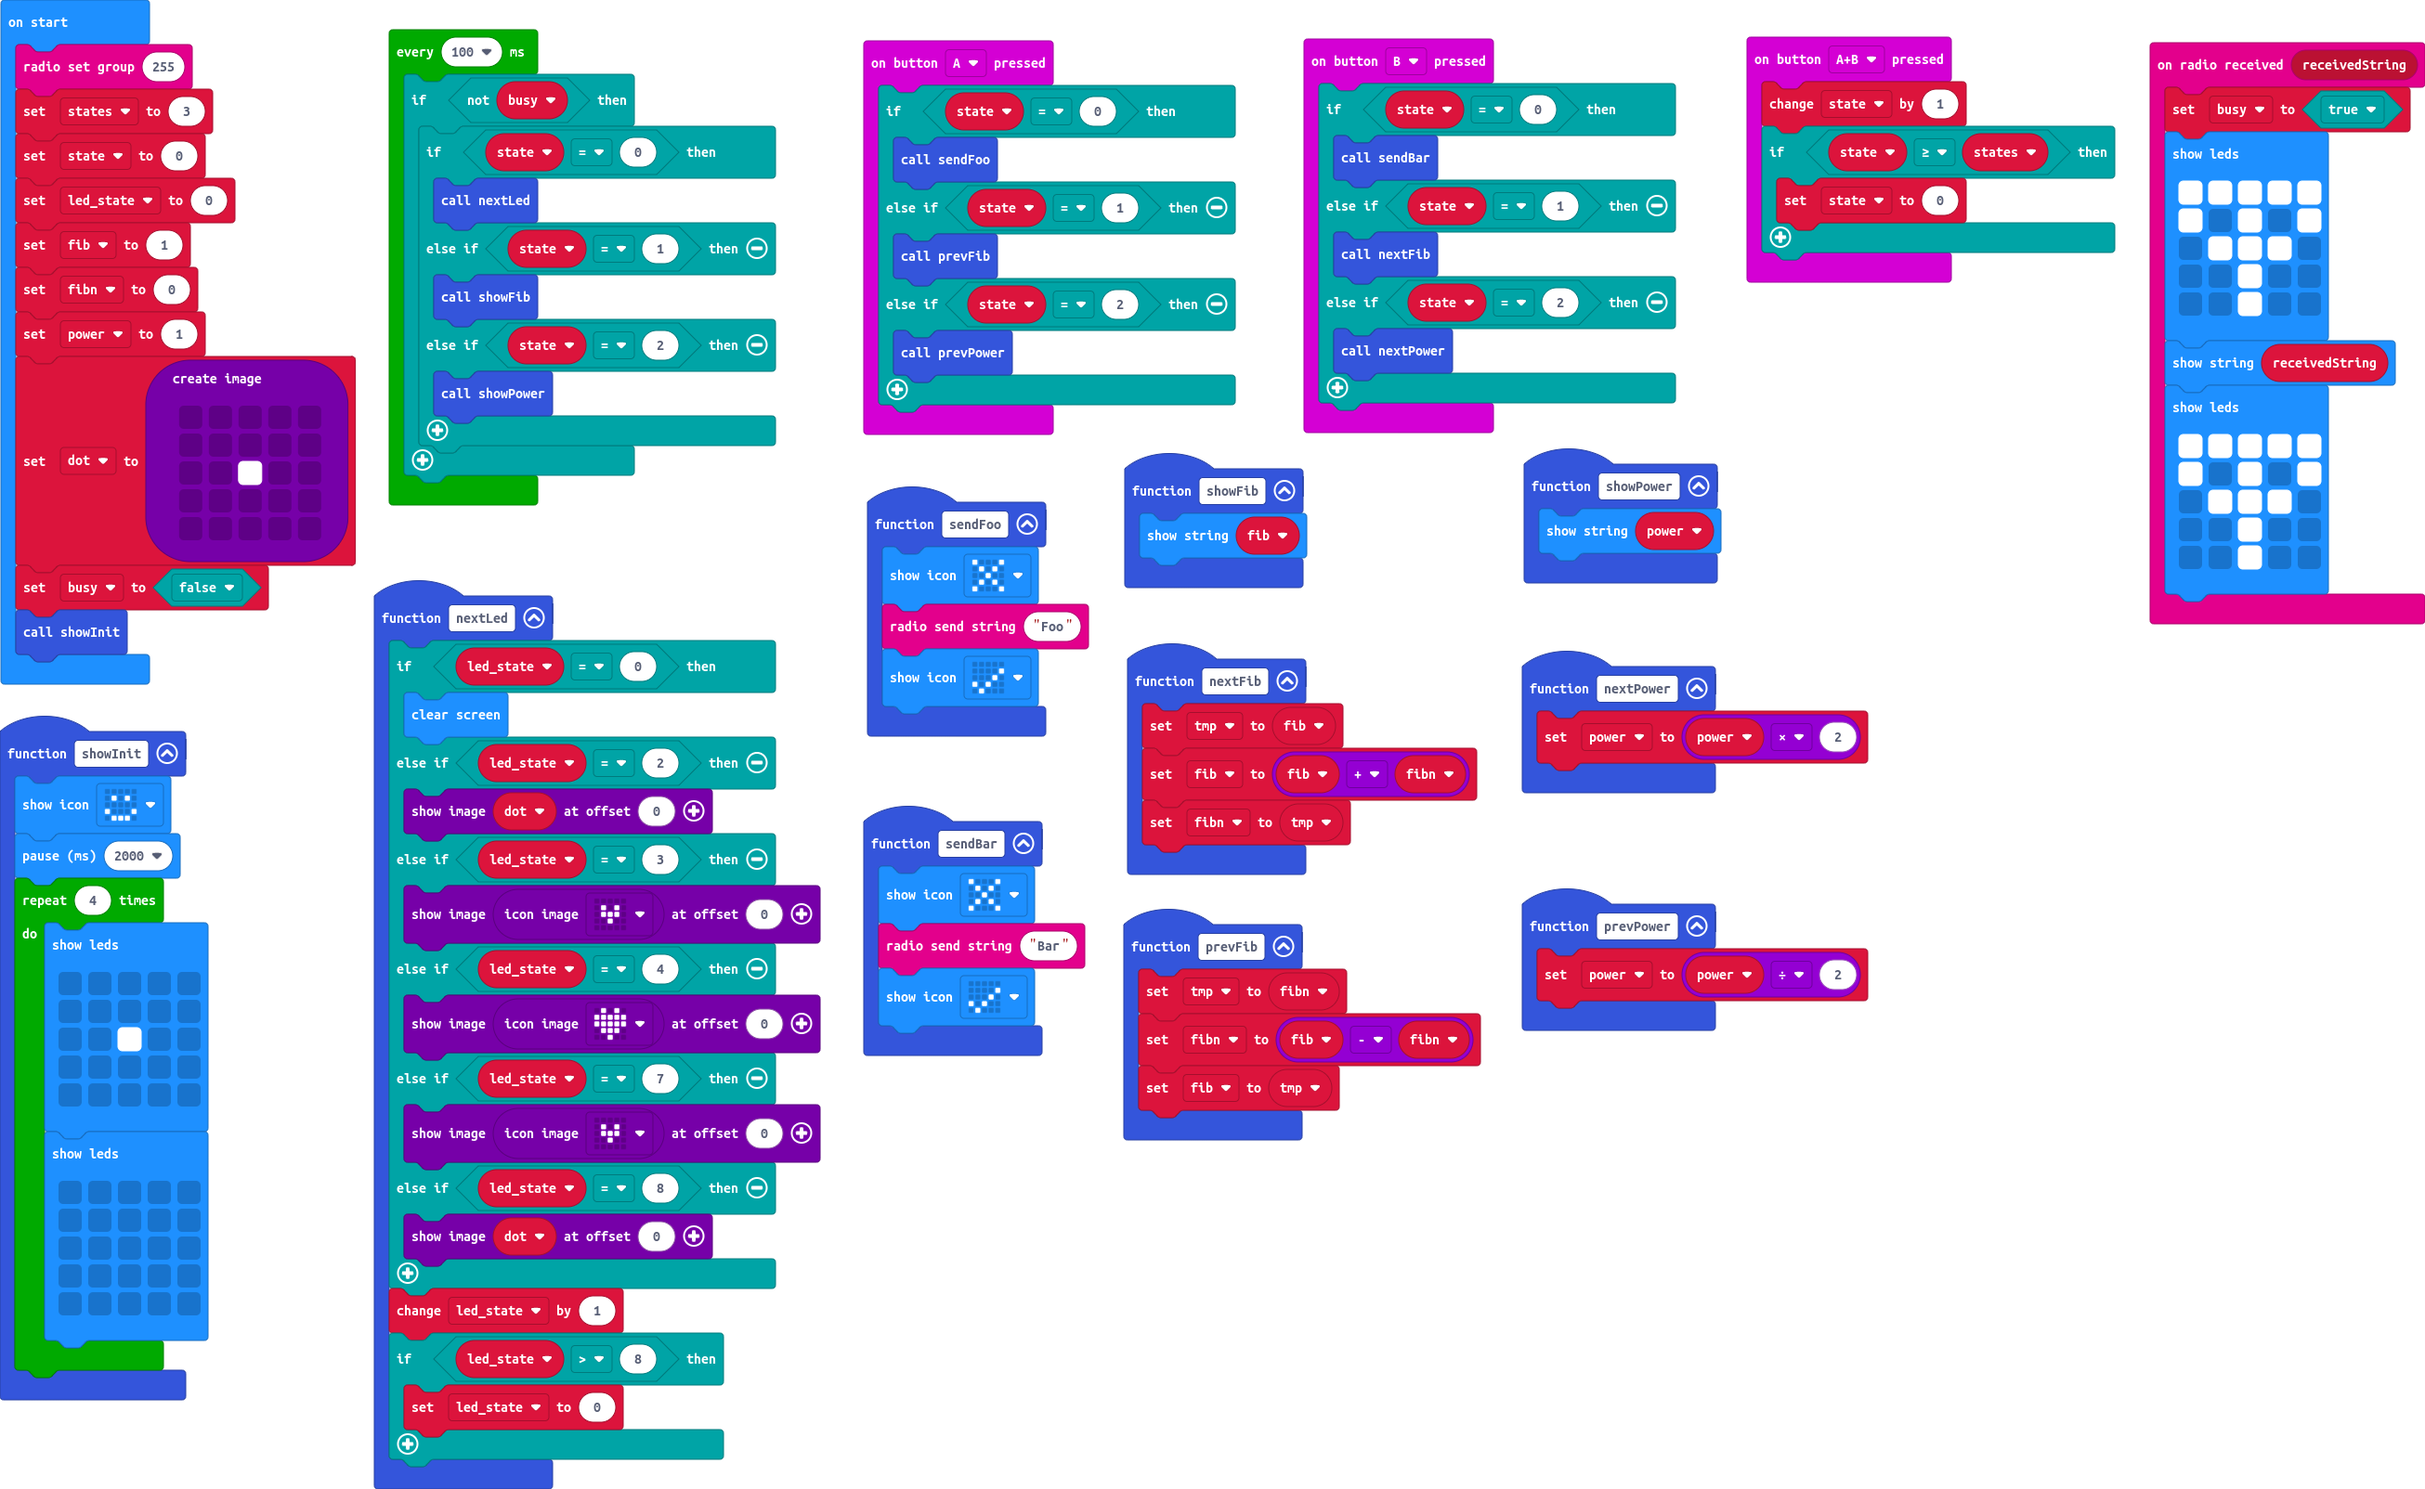
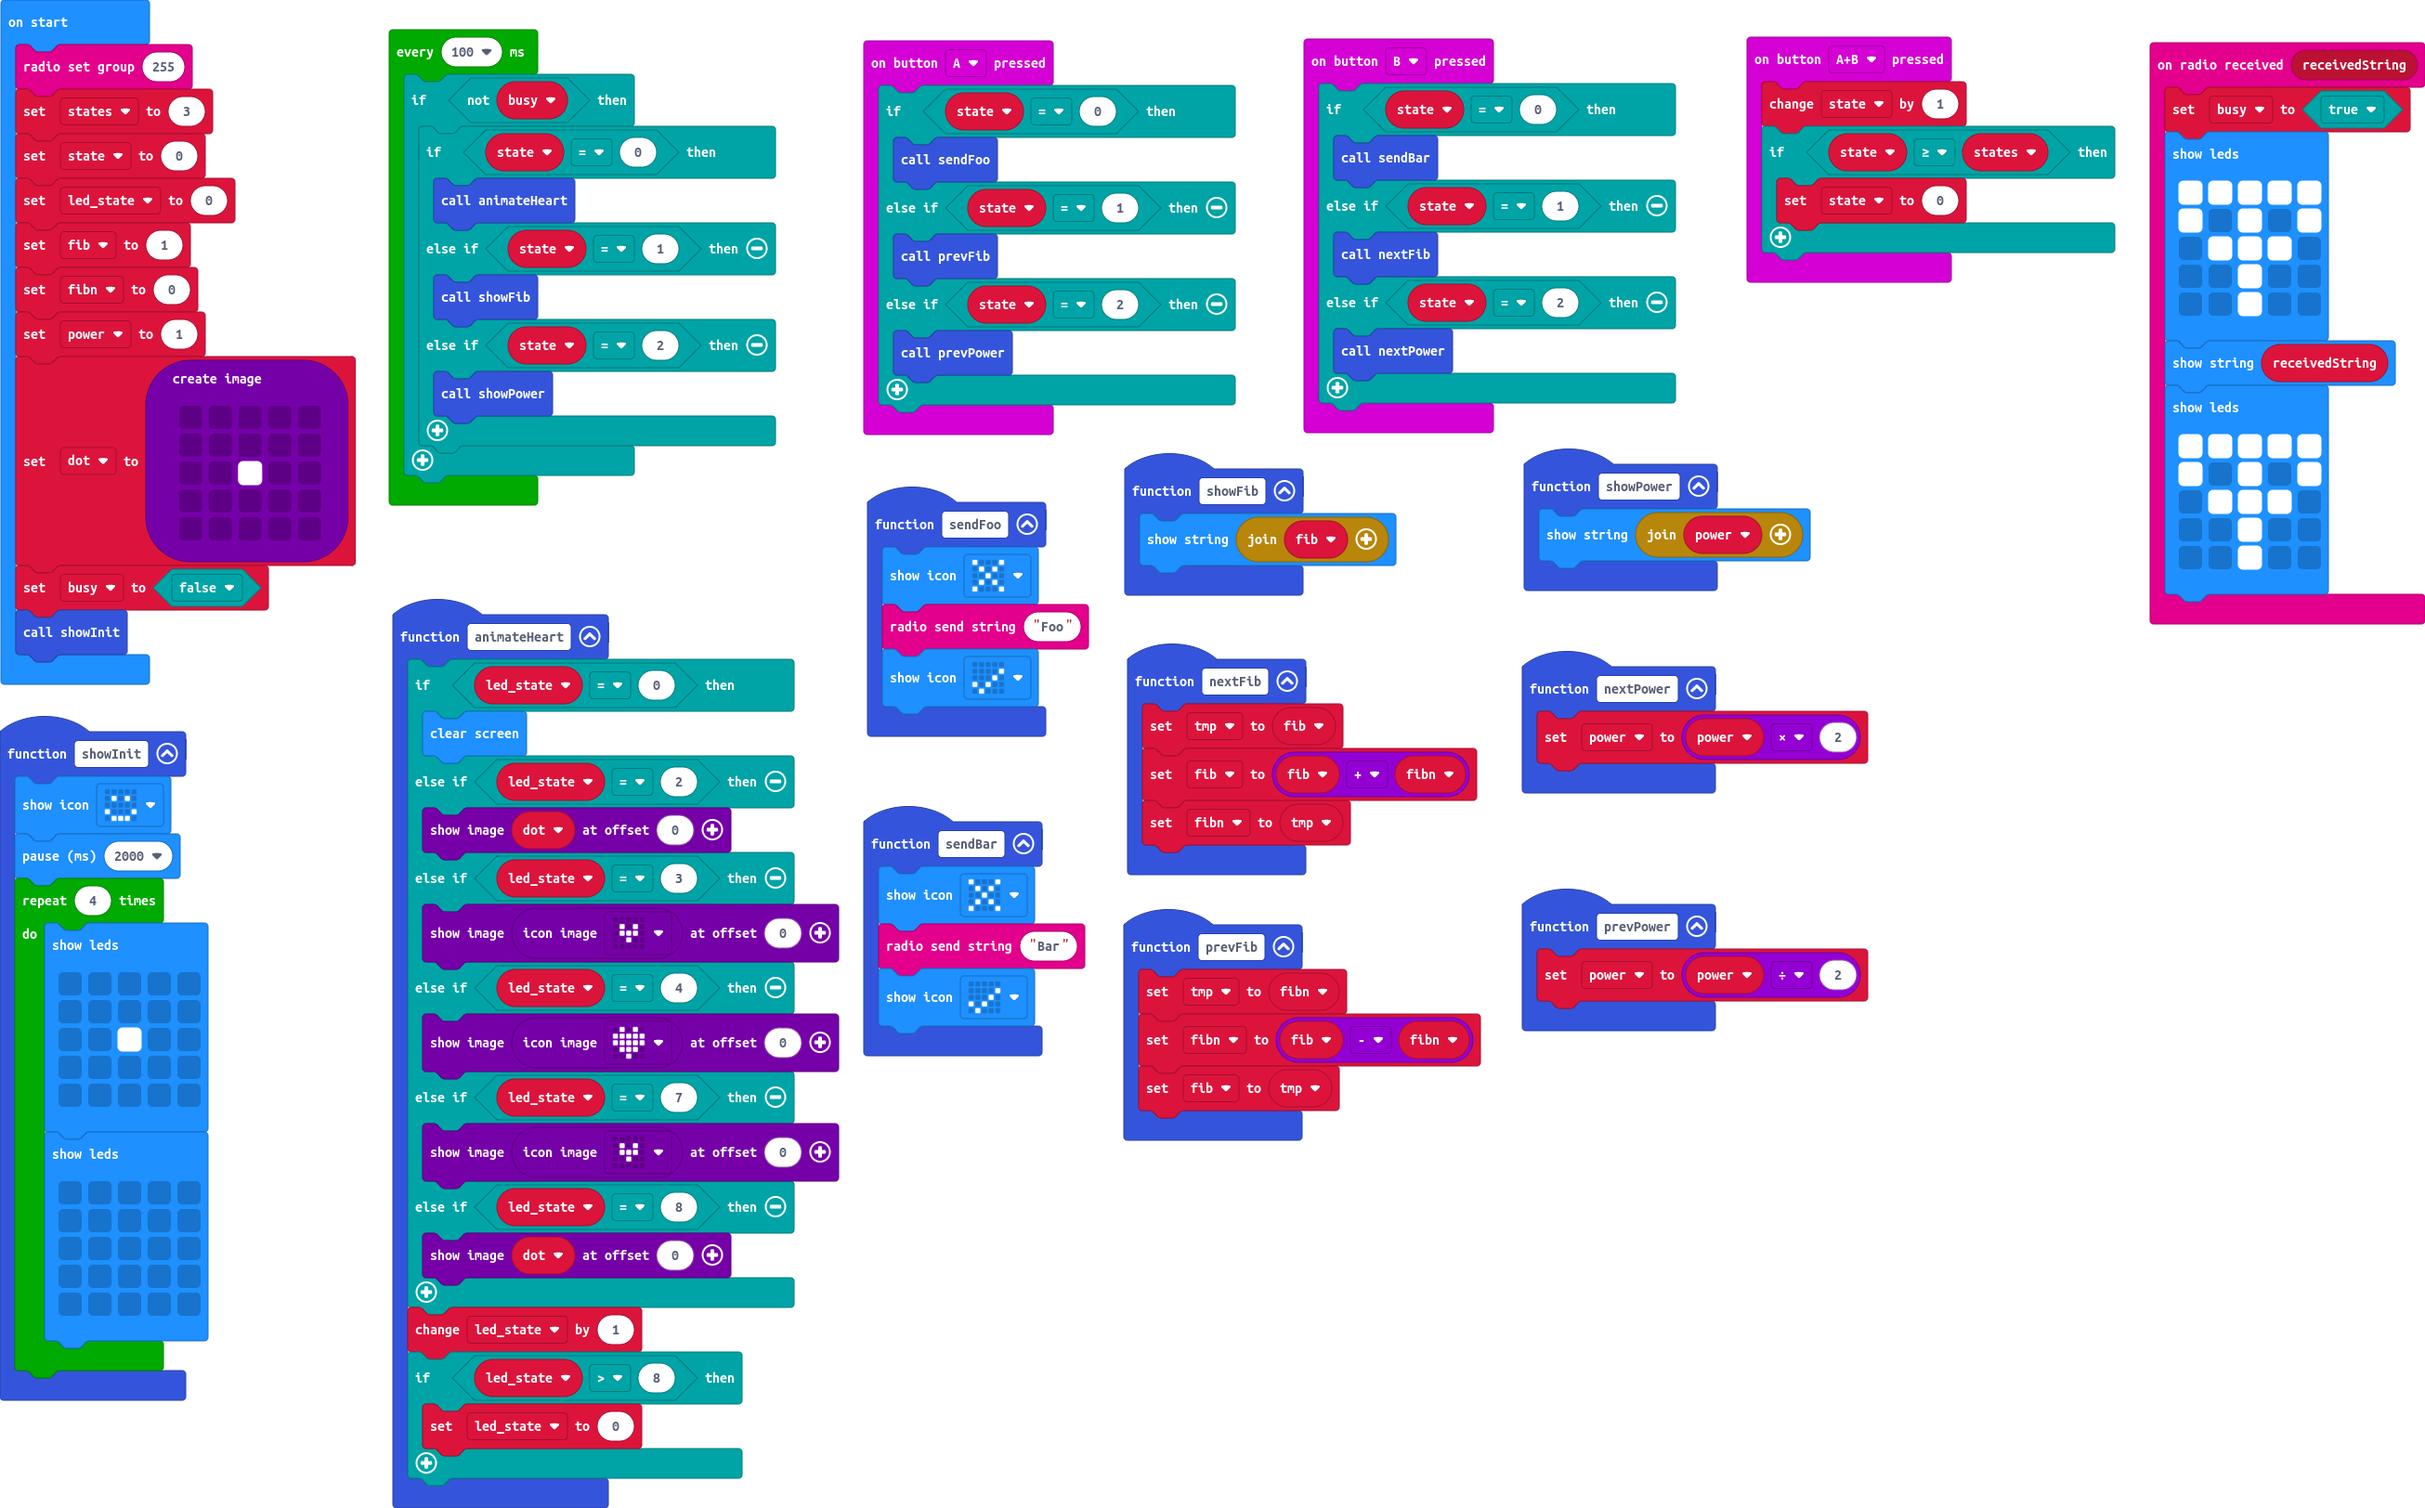
Rename nextLed to animateHeart

diff --git a/main.ts b/main.ts
@@ -1,22 +1,3 @@
-function nextLed () {
-    if (led_state == 0) {
-        basic.clearScreen()
-    } else if (led_state == 2) {
-        dot.showImage(0)
-    } else if (led_state == 3) {
-        images.iconImage(IconNames.SmallHeart).showImage(0)
-    } else if (led_state == 4) {
-        images.iconImage(IconNames.Heart).showImage(0)
-    } else if (led_state == 7) {
-        images.iconImage(IconNames.SmallHeart).showImage(0)
-    } else if (led_state == 8) {
-        dot.showImage(0)
-    }
-    led_state += 1
-    if (led_state > 8) {
-        led_state = 0
-    }
-}
 function sendBar () {
     basic.showIcon(IconNames.No)
     radio.sendString("Bar")
@@ -60,7 +41,7 @@ function showInit () {
     }
 }
 function showPower () {
-    basic.showString("" + (power))
+    basic.showString("" + power)
 }
 input.onButtonPressed(Button.AB, function () {
     state += 1
@@ -96,7 +77,26 @@ input.onButtonPressed(Button.B, function () {
     }
 })
 function showFib () {
-    basic.showString("" + (fib))
+    basic.showString("" + fib)
+}
+function animateHeart () {
+    if (led_state == 0) {
+        basic.clearScreen()
+    } else if (led_state == 2) {
+        dot.showImage(0)
+    } else if (led_state == 3) {
+        images.iconImage(IconNames.SmallHeart).showImage(0)
+    } else if (led_state == 4) {
+        images.iconImage(IconNames.Heart).showImage(0)
+    } else if (led_state == 7) {
+        images.iconImage(IconNames.SmallHeart).showImage(0)
+    } else if (led_state == 8) {
+        dot.showImage(0)
+    }
+    led_state += 1
+    if (led_state > 8) {
+        led_state = 0
+    }
 }
 function sendFoo () {
     basic.showIcon(IconNames.No)
@@ -139,7 +139,7 @@ showInit()
 loops.everyInterval(100, function () {
     if (!(busy)) {
         if (state == 0) {
-            nextLed()
+            animateHeart()
         } else if (state == 1) {
             showFib()
         } else if (state == 2) {

diff --git a/main.py b/main.py
@@ -1,15 +1,56 @@
-def on_button_pressed_a():
+def sendBar():
     basic.show_icon(IconNames.NO)
-    radio.send_string("Boe!")
+    radio.send_string("Bar")
     basic.show_icon(IconNames.YES)
+def prevFib():
+    global tmp, fibn, fib
+    tmp = fibn
+    fibn = fib - fibn
+    fib = tmp
+
+def on_button_pressed_a():
+    if state == 0:
+        sendFoo()
+    elif state == 1:
+        prevFib()
+    elif state == 2:
+        prevPower()
 input.on_button_pressed(Button.A, on_button_pressed_a)
+
+def nextPower():
+    global power
+    power = power * 2
+def showInit():
+    basic.show_icon(IconNames.HAPPY)
+    basic.pause(2000)
+    for index in range(4):
+        basic.show_leds("""
+            . . . . .
+                        . . . . .
+                        . . # . .
+                        . . . . .
+                        . . . . .
+        """)
+        basic.show_leds("""
+            . . . . .
+                        . . . . .
+                        . . . . .
+                        . . . . .
+                        . . . . .
+        """)
+def showPower():
+    basic.show_string("" + str(power))
 
 def on_button_pressed_ab():
     global state
     state += 1
+    if state >= states:
+        state = 0
 input.on_button_pressed(Button.AB, on_button_pressed_ab)
 
 def on_received_string(receivedString):
+    global busy
+    busy = True
     basic.show_leds("""
         # # # # #
                 # . # . #
@@ -28,47 +69,77 @@ def on_received_string(receivedString):
 radio.on_received_string(on_received_string)
 
 def on_button_pressed_b():
-    basic.show_icon(IconNames.NO)
-    radio.send_string("Bla!")
-    basic.show_icon(IconNames.YES)
+    if state == 0:
+        sendBar()
+    elif state == 1:
+        nextFib()
+    elif state == 2:
+        nextPower()
 input.on_button_pressed(Button.B, on_button_pressed_b)
 
-radio.set_group(255)
-basic.show_icon(IconNames.HAPPY)
-basic.pause(2000)
-for index in range(4):
-    basic.show_leds("""
-        . . . . .
-                . . . . .
-                . . # . .
-                . . . . .
-                . . . . .
-    """)
-    basic.show_leds("""
-        . . . . .
-                . . . . .
-                . . . . .
-                . . . . .
-                . . . . .
-    """)
-states = 2
+def showFib():
+    basic.show_string("" + str(fib))
+def animateHeart():
+    global led_state
+    if led_state == 0:
+        basic.clear_screen()
+    elif led_state == 2:
+        dot.show_image(0)
+    elif led_state == 3:
+        images.icon_image(IconNames.SMALL_HEART).show_image(0)
+    elif led_state == 4:
+        images.icon_image(IconNames.HEART).show_image(0)
+    elif led_state == 7:
+        images.icon_image(IconNames.SMALL_HEART).show_image(0)
+    elif led_state == 8:
+        dot.show_image(0)
+    led_state += 1
+    if led_state > 8:
+        led_state = 0
+def sendFoo():
+    basic.show_icon(IconNames.NO)
+    radio.send_string("Foo")
+    basic.show_icon(IconNames.YES)
+def nextFib():
+    global tmp, fib, fibn
+    tmp = fib
+    fib = fib + fibn
+    fibn = tmp
+def prevPower():
+    global power
+    power = power / 2
+tmp = 0
+busy = False
+dot: Image = None
+power = 0
+fibn = 0
+fib = 0
+led_state = 0
 state = 0
+states = 0
+radio.set_group(255)
+states = 3
+state = 0
+led_state = 0
+fib = 1
+fibn = 0
+power = 1
+dot = images.create_image("""
+    . . . . .
+        . . . . .
+        . . # . .
+        . . . . .
+        . . . . .
+""")
+busy = False
+showInit()
 
-def on_forever():
-    if state % states == 0:
-        basic.show_leds("""
-            . . . . .
-                        . . . . .
-                        . . # . .
-                        . . . . .
-                        . . . . .
-        """)
-        basic.show_icon(IconNames.SMALL_HEART)
-        basic.show_icon(IconNames.HEART)
-        basic.pause(200)
-        basic.show_icon(IconNames.SMALL_HEART)
-    elif state == 1:
-        pass
-    else:
-        pass
-basic.forever(on_forever)
+def on_every_interval():
+    if not (busy):
+        if state == 0:
+            animateHeart()
+        elif state == 1:
+            showFib()
+        elif state == 2:
+            showPower()
+loops.every_interval(100, on_every_interval)
